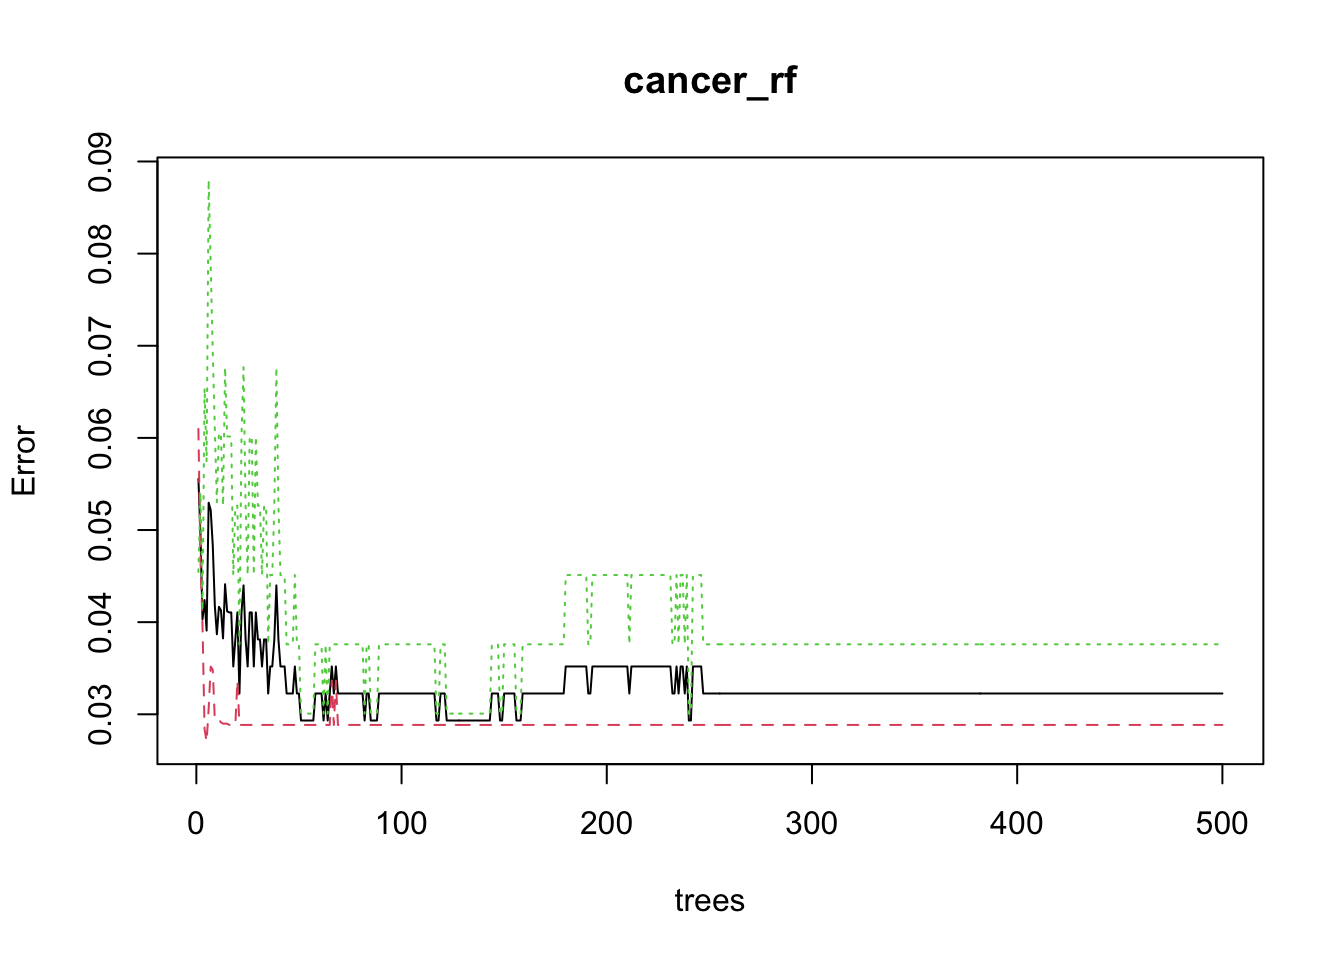
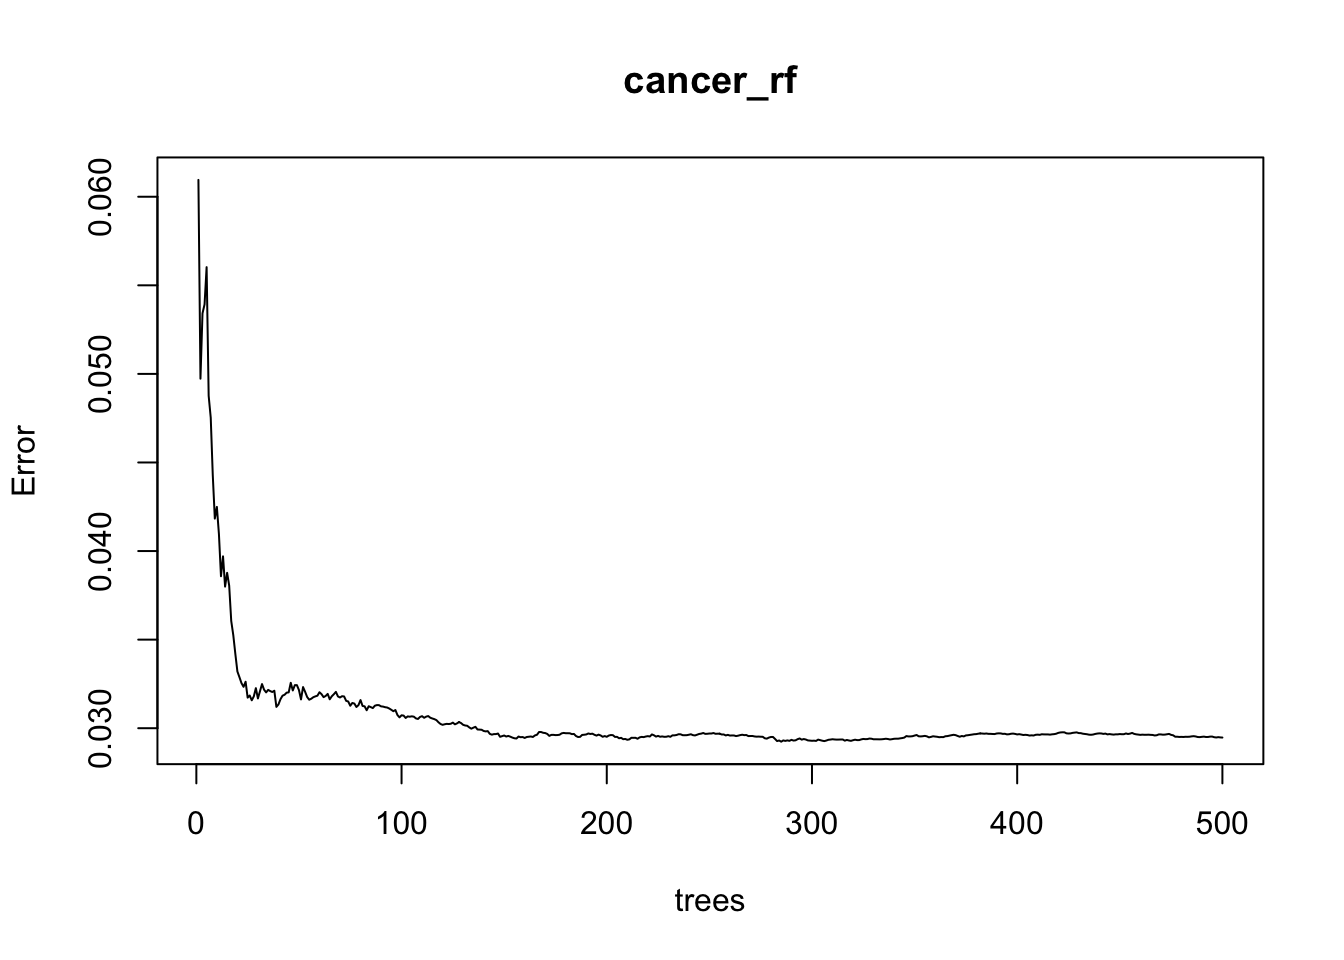
Finished Report Page

diff --git a/Final Report Webpage.html b/Final Report Webpage.html
@@ -173,7 +173,7 @@ The following object is masked from 'package:purrr':
 <li><p><strong>margadhesion</strong>: (1-10). Normal cells tend to stick together, while cancer cells tend to lose this ability, so the loss of adhesion is a sign of malignancy.&nbsp;</p></li>
 <li><p><strong>epithelial</strong>: (1-10). It is related to the uniformity mentioned above. Epithelial cells that are significantly enlarged may be malignant.&nbsp;</p></li>
 <li><p><strong>barenuclei</strong>: (1-10). This term is used for nuclei not surrounded by cytoplasm (the rest of the cell). Those are typically seen in benign tumors.&nbsp;</p></li>
-<li><p><strong>blandchromatin</strong>: (1-10). Describes a uniform "texture" of the nucleus seen in benign cells. In cancer cells, the chromatin tends to be more coarse and to form clumps.&nbsp;</p></li>
+<li><p><strong>blandchromatin</strong>: (1-10). Describes a uniform “texture” of the nucleus seen in benign cells. In cancer cells, the chromatin tends to be more coarse and to form clumps.&nbsp;</p></li>
 <li><p><strong>normalnucleoli</strong>: (1-10). Nucleoli are small structures seen in the nucleus. In normal cells, the nucleolus is usually very small, if visible. The nucleoli become more prominent in cancer cells, and sometimes there are multiple.&nbsp;</p></li>
 <li><p><strong>mitoses</strong>: (1-10). Cancer is essentially a disease of uncontrolled mitosis.&nbsp;</p></li>
 <li><p><strong>benormal</strong>: (2 or 4). Benign (non-cancerous) or malignant (cancerous) lump in a breast.&nbsp;ii. Materials and Methods</p></li>
@@ -264,6 +264,9 @@ The following object is masked from 'package:purrr':
 </div>
 </div>
 <p>Some of the variables showed correlations to each other, but none were deemed significant by the corr.test() function. But one thing we did notice was that many of the variables exhibited a right skew with their means larger than their medians. We could potentially log() the variables to make them more uniform.</p>
+</section>
+<section id="ii.-materials-and-methods" class="level2">
+<h2 class="anchored" data-anchor-id="ii.-materials-and-methods">ii. Materials and Methods</h2>
 <section id="logistic-regression-model" class="level3">
 <h3 class="anchored" data-anchor-id="logistic-regression-model">Logistic Regression Model</h3>
 <p>We decided to develop a Logisitic regression model to see if we could develop a model that could be used to predict if a cell was cancerous or not. Because our outcome can only be one of two things (cell is malignant or benign) we should be using a classification model and logistic regression is a simple model which is much easier to set up and train initially than other machine learning models.</p>
@@ -417,7 +420,7 @@ Signif. codes:  0 '***' 0.001 '**' 0.01 '*' 0.05 '.' 0.1 ' ' 1</code></pre>
 </div>
 </div>
 <p>As should be expected, creating a model using only the significant variables was worse at explaining the dataset. Using the Chisq test, we can also conclude that the more complex model is significantly better than the simpler model.</p>
-<p>Using model_1 as the final model, lets see how accurcate it is for prediction.</p>
+<p>Using model_1 as the final model, lets see how accurate it is for prediction.</p>
 <div class="cell">
 <div class="cell-output cell-output-stdout">
 <pre><code>          1           2           3           4           5           6 
@@ -470,27 +473,25 @@ Prediction   0   1
 </div>
 </div>
 </div>
-<p>Based on these results, it is best to include 3 variables in each split. Knowing this, we created a random forest model at the desired variable spilt.</p>
+<p>Based on these results, it is best to include 6 variables in each split. Knowing this, we created a random forest model at the desired variable split.</p>
 <div class="cell">
 <div class="cell-output cell-output-stderr">
-<pre><code>Warning in Ops.factor(yhat.rf, df_clean.test): '-' not meaningful for factors</code></pre>
+<pre><code>Warning in randomForest.default(m, y, ...): The response has five or fewer
+unique values.  Are you sure you want to do regression?</code></pre>
 </div>
 <div class="cell-output cell-output-stdout">
-<pre><code>[1] NA</code></pre>
+<pre><code>[1] 0.03088145</code></pre>
 </div>
 <div class="cell-output cell-output-stdout">
 <pre><code>
 Call:
- randomForest(formula = benormal ~ ., data = df_clean, mtry = 3,      importance = TRUE, subset = train) 
-               Type of random forest: classification
+ randomForest(formula = benormal ~ ., data = df_clean, mtry = 6,      importance = TRUE, subset = train) 
+               Type of random forest: regression
                      Number of trees: 500
-No. of variables tried at each split: 3
+No. of variables tried at each split: 6
 
-        OOB estimate of  error rate: 3.23%
-Confusion matrix:
-    0   1 class.error
-0 202   6  0.02884615
-1   5 128  0.03759398</code></pre>
+          Mean of squared residuals: 0.0294727
+                    % Var explained: 86.76</code></pre>
 </div>
 <div class="cell-output-display">
 <div>
@@ -507,51 +508,45 @@ Confusion matrix:
 </div>
 </div>
 </div>
-<p>The variable that is most important to reduce the mean standard error (MSE) is barenuceli and the variables that were deemed the most important to include in the node splitting were uniformcellsize and uniformcellshape. Overall, the model is very good with 88.7% of the variables explained.</p>
+<p>The variable that is most important to reduce the mean standard error (MSE) is barenuceli and the variables that were deemed the most important to include in the node splitting were uniformcellsize and uniformcellshape. Overall, the model is very good with 88.7% of the variables explained. Looking at the confusion matrix:</p>
 <div class="cell">
 <div class="cell-output cell-output-stdout">
-<pre><code>695 131 524 486 311 279 193 320 612 286 
-  0   0   1   0   0   0   0   1   1   1 
-Levels: 0 1</code></pre>
-</div>
-<div class="cell-output cell-output-stderr">
-<pre><code>Warning in Ops.factor(glm.probs, 0.5): '&gt;' not meaningful for factors</code></pre>
-</div>
-<div class="cell-output cell-output-stderr">
-<pre><code>Warning in confusionMatrix.default(glm.pred, df_clean$benormal): Levels are not
-in the same order for reference and data. Refactoring data to match.</code></pre>
+<pre><code>            1             2             3             4             5 
+-6.311618e-16  7.780000e-01 -5.944134e-16  3.439000e-01  4.533333e-03 
+            6             7             8             9            10 
+ 1.000000e+00  2.551000e-01 -6.267209e-16  2.292000e-01 -5.822010e-16 </code></pre>
 </div>
 <div class="cell-output cell-output-stdout">
 <pre><code>Confusion Matrix and Statistics
 
           Reference
 Prediction   0   1
-         0 444 239
-         1   0   0
+         0 438   9
+         1   6 230
                                          
-               Accuracy : 0.6501         
-                 95% CI : (0.613, 0.6859)
+               Accuracy : 0.978          
+                 95% CI : (0.964, 0.9877)
     No Information Rate : 0.6501         
-    P-Value [Acc &gt; NIR] : 0.5176         
+    P-Value [Acc &gt; NIR] : &lt;2e-16         
                                          
-                  Kappa : 0              
+                  Kappa : 0.9516         
                                          
- Mcnemar's Test P-Value : &lt;2e-16         
+ Mcnemar's Test P-Value : 0.6056         
                                          
-            Sensitivity : 1.0000         
-            Specificity : 0.0000         
-         Pos Pred Value : 0.6501         
-         Neg Pred Value :    NaN         
+            Sensitivity : 0.9865         
+            Specificity : 0.9623         
+         Pos Pred Value : 0.9799         
+         Neg Pred Value : 0.9746         
              Prevalence : 0.6501         
-         Detection Rate : 0.6501         
-   Detection Prevalence : 1.0000         
-      Balanced Accuracy : 0.5000         
+         Detection Rate : 0.6413         
+   Detection Prevalence : 0.6545         
+      Balanced Accuracy : 0.9744         
                                          
        'Positive' Class : 0              
                                          </code></pre>
 </div>
 </div>
-<p>However, when looking at the confusion matrix we see a different story. The % chance the model falsely predicted cancer when not was 167/444 (37.6%) and the chance the model falsely predicted not having cancer when there was 136/239 (56.9%).</p>
+<p>The percent chance the model falsely predicted cancer when not was 6/444 (1.4%) and the chance the model falsely predicted not having cancer when there was 9/239 (3.7%).</p>
 </section>
 <section id="principal-component-analysis" class="level3">
 <h3 class="anchored" data-anchor-id="principal-component-analysis">Principal Component Analysis</h3>
@@ -632,8 +627,22 @@ Prediction   0   1
 </div>
 </div>
 <p>The eigenvalues taper off after the first few components, with the first two capturing the majority of the variance.</p>
-<p>In the second plot we can see that the first 6 components explain over 80% of the variance in the data and the remaining components add little additional information.</p>
+<p>In the plot on the right we can see that the first 6 components explain over 90% of the variance in the data and the remaining components add little additional information.</p>
 </section>
+</section>
+<section id="iii.-limitations" class="level2">
+<h2 class="anchored" data-anchor-id="iii.-limitations">iii. Limitations</h2>
+<p>There were no major limitations for this analysis but there were a few of things that needed to be done to the dataset in order to clean and make the dataset usable for analysis. First, we had to identify and remove all missing rows from the dataset. Second, we had to transform the response variable to be "0" and "1". Finally, many of the variables seemed to show a left skew making us question if the variables should be transformed or not.&nbsp;</p>
+<p>There were only 699 samples for the dataset and although a solid number of samples, more samples would lead to a more predictable conclusion.&nbsp;</p>
+</section>
+<section id="iv.-conclusion" class="level2">
+<h2 class="anchored" data-anchor-id="iv.-conclusion">iv. Conclusion</h2>
+<p>It seems that a significantly accurate model to predict if a cancerous cell could be malignant using the measurements recorded in this dataset. To test this, we created multiple regression models, a random forest model, and a PCA analysis to understand the variables more thoroughly. &nbsp;</p>
+<p>In the PCA test we determined that the dataset's variance could be explained by simplifying and using only 2 of 9 predictor variables. We then created multiple logistic regression models and compared them to each other to choose the best one. After variable transformation and selection, we determined the best model would be to use all the variables. The percent chance the model falsely predicted cancer when not was 10/444 (2.2%) and the chance the model falsely predicted not having cancer when there was 11/239 (4.6%). We then decided to try and create an optimal best random forest model, starting with a best fit decision tree model. The created model resulted in an overall accuracy rate of almost 98% with the percent chance the model falsely predicted cancer when not was 6/444 (1.4%) and the chance the model falsely predicted not having cancer when there was 9/239 (3.7%). Based on the two models we created, the best model to use would be the random forest model because of its high accuracy and predictability.&nbsp;</p>
+</section>
+<section id="references" class="level2">
+<h2 class="anchored" data-anchor-id="references">References</h2>
+<p>[1] Wolberg,WIlliam. (1992). Breast Cancer Wisconsin (Original). UCI Machine Learning Repository. https://doi.org/10.24432/C5HP4Z.&nbsp;</p>
 </section>
 
 </main>
